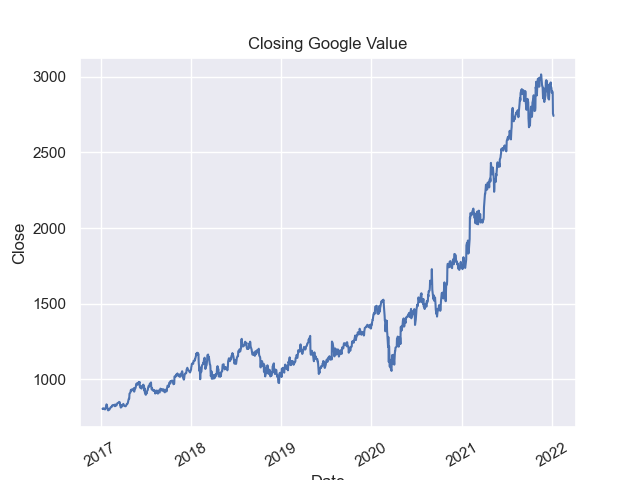
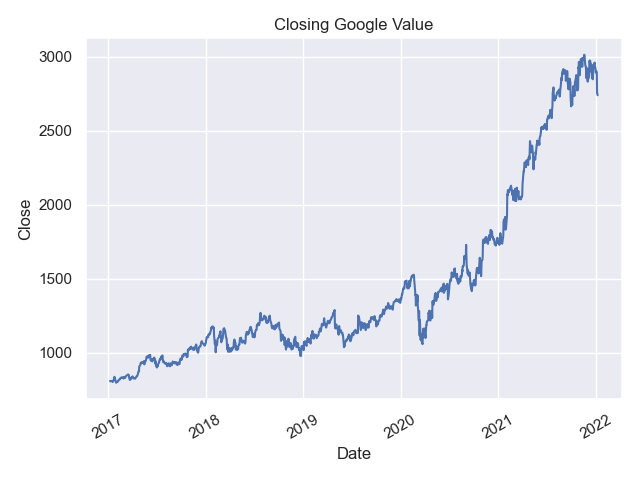
fixed plot padding

diff --git a/static/styles/style.css b/static/styles/style.css
@@ -51,3 +51,7 @@ a {
 #connectUber {
 	margin-bottom: 10px;
 }
+
+#image {
+	height: max-content;
+}

diff --git a/readApple.py b/readApple.py
@@ -12,6 +12,7 @@ from yfinance import tickers
 import seaborn as sns
 import matplotlib.pyplot as plt
 matplotlib.use('Agg')
+plt.tight_layout()
 
 def main():
     appleTicker = yf.Ticker('AAPL')
@@ -21,6 +22,8 @@ def main():
     sns.set_theme()
     plt.xticks(rotation=30)
     plt.title(f'Closing Stock Prices for Apple')
+    plt.tight_layout()
+
     plt.savefig('apple.png')
     return appleData
 

diff --git a/readDow.py b/readDow.py
@@ -12,7 +12,7 @@ import seaborn as sns
 import matplotlib
 import matplotlib.pyplot as plt
 matplotlib.use('Agg')
-
+plt.tight_layout()
 
 def main():
     dowTicker = yf.Ticker('^DJI')
@@ -22,6 +22,8 @@ def main():
     sns.set_theme()
     plt.xticks(rotation=30)
     plt.title(f'Closing Dow Jones Value')
+    plt.tight_layout()
+
     plt.savefig('dow.png')
     return dowData
 

diff --git a/readFacebook.py b/readFacebook.py
@@ -12,6 +12,7 @@ import seaborn as sns
 import matplotlib
 import matplotlib.pyplot as plt
 matplotlib.use('Agg')
+plt.tight_layout()
 
 
 def main():
@@ -22,6 +23,8 @@ def main():
     sns.set_theme()
     plt.xticks(rotation=30)
     plt.title(f'Closing Facebook Value')
+    plt.tight_layout()
+
     plt.savefig('facebook.png')
     return facebookData
 

diff --git a/readGoogle.py b/readGoogle.py
@@ -12,6 +12,7 @@ import seaborn as sns
 import matplotlib
 import matplotlib.pyplot as plt
 matplotlib.use('Agg')
+plt.tight_layout()
 
 
 def main():
@@ -22,6 +23,8 @@ def main():
     sns.set_theme()
     plt.xticks(rotation=30)
     plt.title(f'Closing Google Value')
+    plt.tight_layout()
+
     plt.savefig('google.png')
     return googleData
 

diff --git a/readTesla.py b/readTesla.py
@@ -12,6 +12,7 @@ import seaborn as sns
 import matplotlib
 import matplotlib.pyplot as plt
 matplotlib.use('Agg')
+plt.tight_layout()
 
 
 def main():
@@ -22,6 +23,8 @@ def main():
     sns.set_theme()
     plt.xticks(rotation=30)
     plt.title(f'Closing Tesla Value')
+    plt.tight_layout()
+
     plt.savefig('tesla.png')
     return teslaData
 

diff --git a/readUber.py b/readUber.py
@@ -12,6 +12,7 @@ import seaborn as sns
 import matplotlib
 import matplotlib.pyplot as plt
 matplotlib.use('Agg')
+plt.tight_layout()
 
 
 def main():
@@ -22,6 +23,8 @@ def main():
     sns.set_theme()
     plt.xticks(rotation=30)
     plt.title(f'Closing Uber Value')
+    plt.tight_layout()
+
     plt.savefig('uber.png')
     return uberData
 
